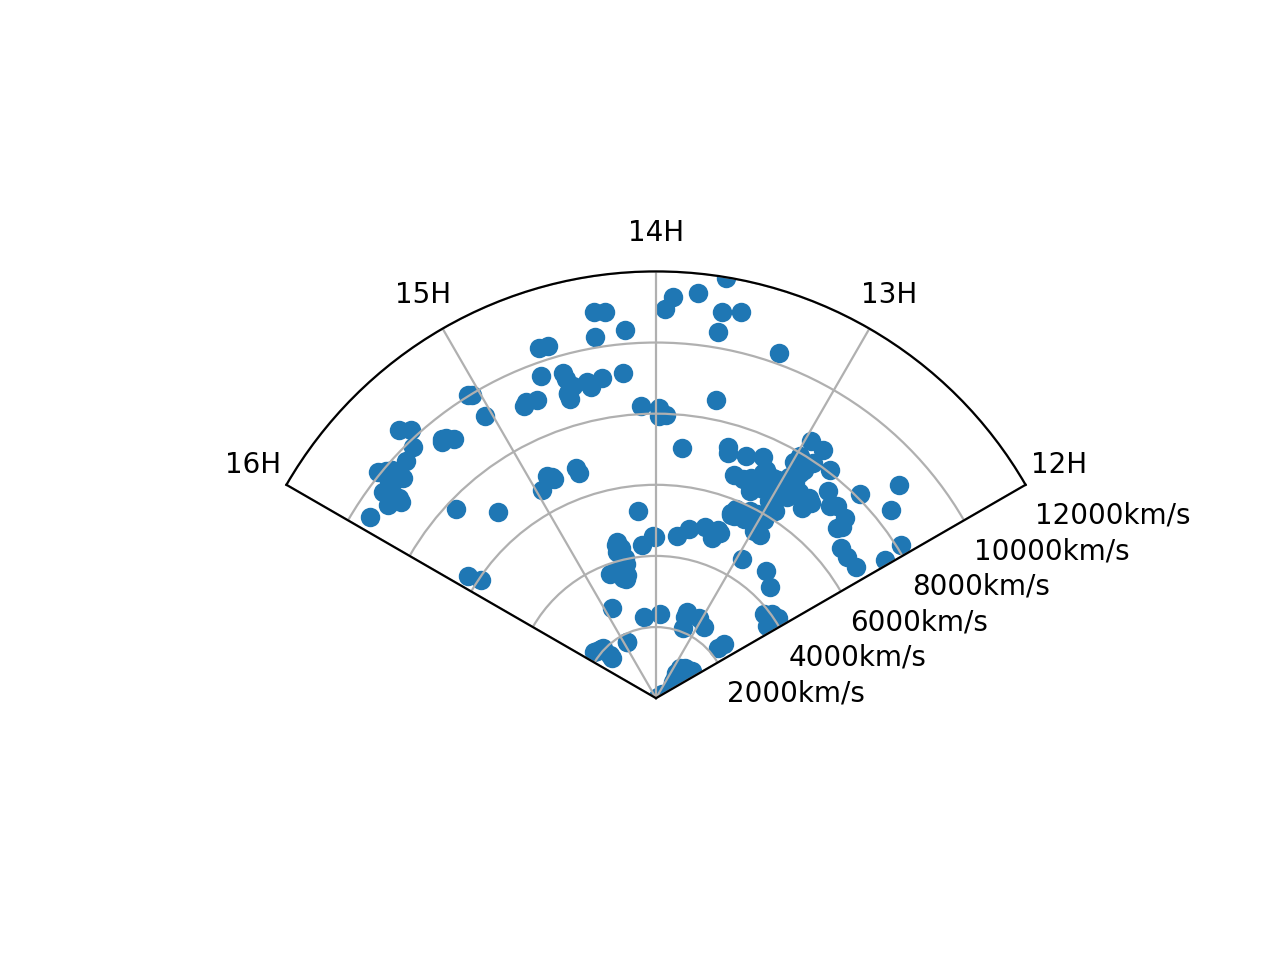
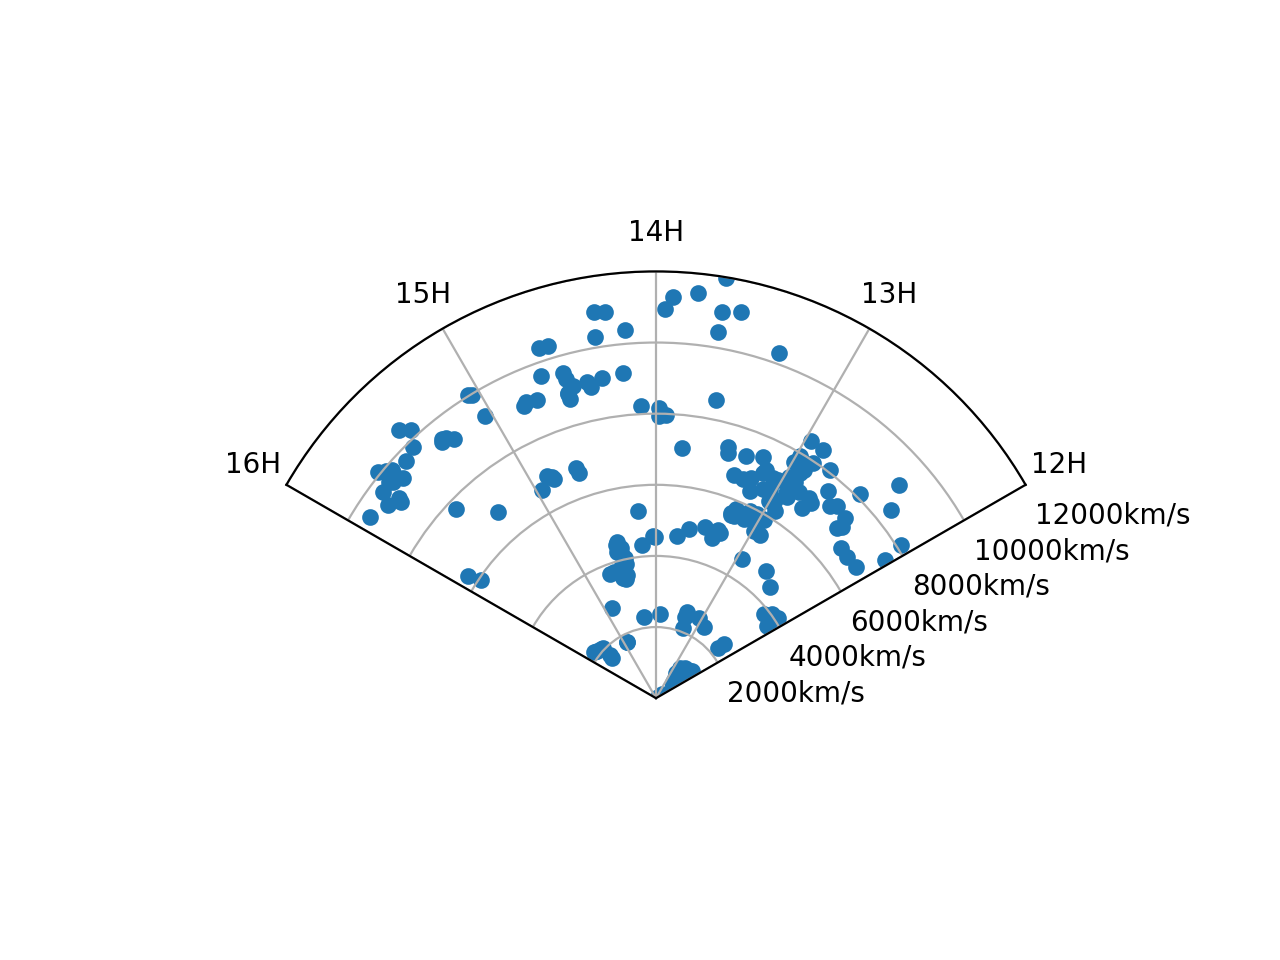
decrease dot size

diff --git a/plot.py b/plot.py
@@ -3,23 +3,23 @@ import matplotlib.pyplot as plt
 import numpy as np
 
 
-def timeToDeg(hour, minute, second):
+def time2deg(hour, minute, second):
     return 360 * ((hour / 24) + (minute / (24 * 60)) + (second / (24 * 60 * 60)))
 
 
-def timeToRad(hour, minute, second):
-    return np.deg2rad(timeToDeg(hour, minute, second))
+def time2rad(hour, minute, second):
+    return np.deg2rad(time2deg(hour, minute, second))
 
 
 data = pd.read_csv('lab3wedge.csv')
 
 velocities = data['Vr']
-declinations = timeToRad(data['Hours'], data['Minutes'], data['Seconds'])
-declinations = (declinations * 2) - timeToRad(14, 0, 0)
+declinations = time2rad(data['Hours'], data['Minutes'], data['Seconds'])
+declinations = (declinations * 2) - time2rad(14, 0, 0)
 
 fig, ax = plt.subplots(subplot_kw={'projection': 'polar'})
-ax.scatter(declinations, velocities)
-ax.set_theta_offset(timeToRad(16, 0, 0))
+ax.scatter(declinations, velocities, s=25)
+ax.set_theta_offset(time2rad(16, 0, 0))
 ax.set_xticks(np.linspace(np.pi, 3 * np.pi / 2, 4))
 ax.set_rmax(12000)
 ax.set_rticks([2000, 4000, 6000, 8000, 10000, 12000])
@@ -29,14 +29,14 @@ ax.set_yticklabels(radial_tick_labels)
 
 ax.grid(True)
 
-ax.set_thetamin(timeToDeg(10, 0, 0))
-ax.set_thetamax(timeToDeg(18, 0, 0))
+ax.set_thetamin(time2deg(10, 0, 0))
+ax.set_thetamax(time2deg(18, 0, 0))
 
-theta_ticks = np.linspace(timeToDeg(10, 0, 0), timeToDeg(18, 0, 0), 5)
+theta_ticks = np.linspace(time2deg(10, 0, 0), time2deg(18, 0, 0), 5)
 theta_labels = ['12H', '13H', '14H', '15H', '16H']
 ax.set_xticks(np.deg2rad(theta_ticks))
 ax.set_xticklabels(theta_labels)
 
+
 plt.savefig('wedge.png', dpi=200)
 plt.show()
-
